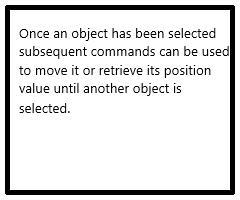
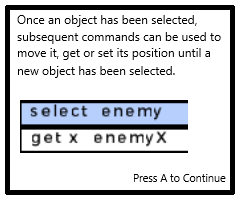
tutorial revisions
- added pictures to tutorials

diff --git a/source/scenes/PongScene.cpp b/source/scenes/PongScene.cpp
@@ -45,6 +45,9 @@ void PongScene::initialize(){
 	tutorial[0] = new SpriteMenuItem(*(ResourceManager::getSprite("pong_tutorial_1.png")));
 	tutorial[1] = new SpriteMenuItem(*(ResourceManager::getSprite("pong_tutorial_2.png")));
 	tutorial[2] = new SpriteMenuItem(*(ResourceManager::getSprite("pong_tutorial_3.png")));
+	tutorial[3] = new SpriteMenuItem(*(ResourceManager::getSprite("pong_tutorial_4.png")));
+	tutorial[4] = new SpriteMenuItem(*(ResourceManager::getSprite("pong_tutorial_5.png")));
+
 	
 	tutCount = 0;
 	popup = tutorial[tutCount++];
